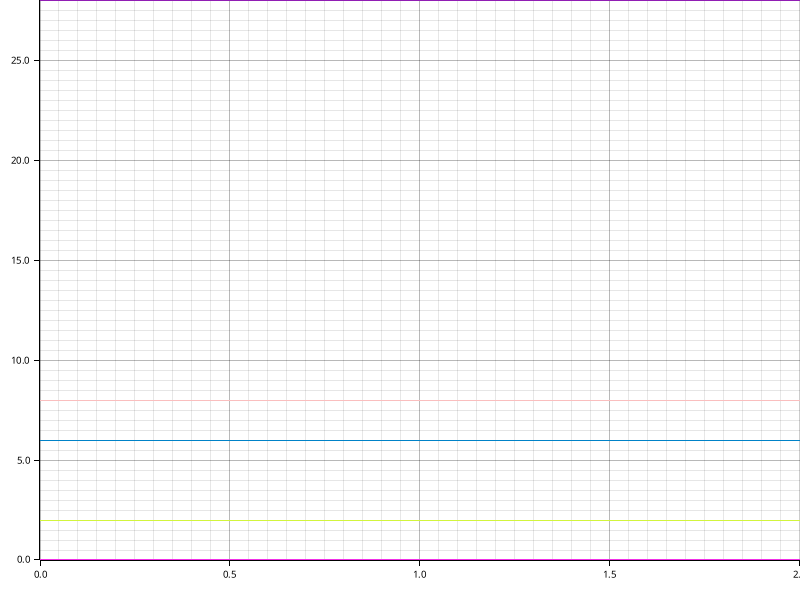
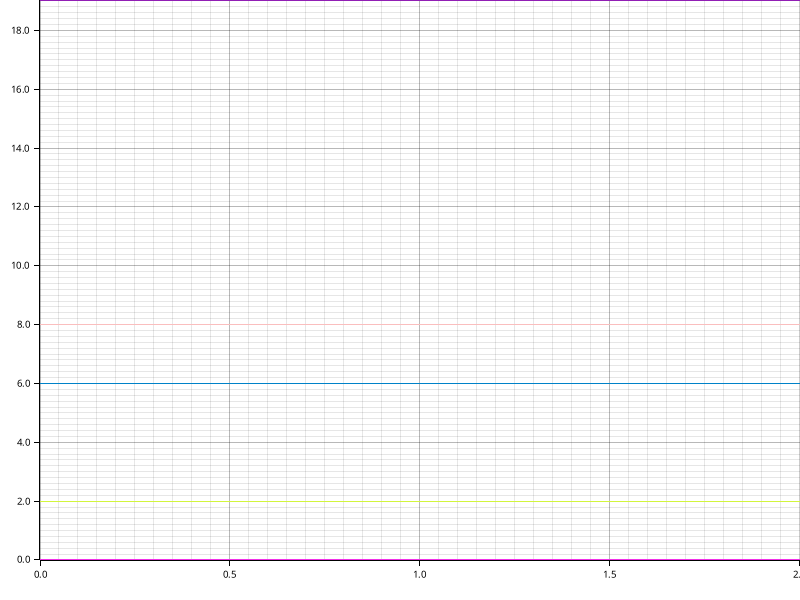
Regenerated codegen

Changed region(s): [[0.0, 0.0, 1.0, 0.93]]

diff --git a/web/core-structures/core-structures-builder/time_requirements_report.md b/web/core-structures/core-structures-builder/time_requirements_report.md
@@ -1,8 +1,8 @@
 # Time Report for Building Core Structures
 
-The total time spent on all tasks was a minute.
+The total time spent on all tasks was 38 seconds.
 
-The slowest task was `Building Schema from CSVs` which took 28 seconds (60.87% of all time).
+The slowest task was `Building Schema from CSVs` which took 19 seconds (50.00% of all time).
 
 ![Plot](time_requirements_report.png)
 
@@ -15,17 +15,17 @@ The slowest task was `Building Schema from CSVs` which took 28 seconds (60.87% o
 +---------------------------------+------------+------------+------------+
 | Creating Taxonomical Ranks CSV  | now        | 0.00%      | Unchanged. |
 +---------------------------------+------------+------------+------------+
-| Fetching NCBI Taxonomy          | now        | 13.04%     | Unchanged. |
+| Fetching NCBI Taxonomy          | now        | 15.79%     | Unchanged. |
 +---------------------------------+------------+------------+------------+
 | Creating Taxonomy CSV           | now        | 0.00%      | Unchanged. |
 +---------------------------------+------------+------------+------------+
-| Building Schema from CSVs       | 28 seconds | 60.87%     | Unchanged. |
+| Building Schema from CSVs       | 19 seconds | 50.00%     | Unchanged. |
 +---------------------------------+------------+------------+------------+
 | Executing Migrations            | now        | 0.00%      | Unchanged. |
 +---------------------------------+------------+------------+------------+
 | Executing Meta-SQL              | now        | 0.00%      | Unchanged. |
 +---------------------------------+------------+------------+------------+
-| Checking Constraints            | now        | 4.35%      | Unchanged. |
+| Checking Constraints            | now        | 5.26%      | Unchanged. |
 +---------------------------------+------------+------------+------------+
-| Generating Code                 | now        | 17.39%     | Unchanged. |
+| Generating Code                 | now        | 21.05%     | Unchanged. |
 +---------------------------------+------------+------------+------------+
